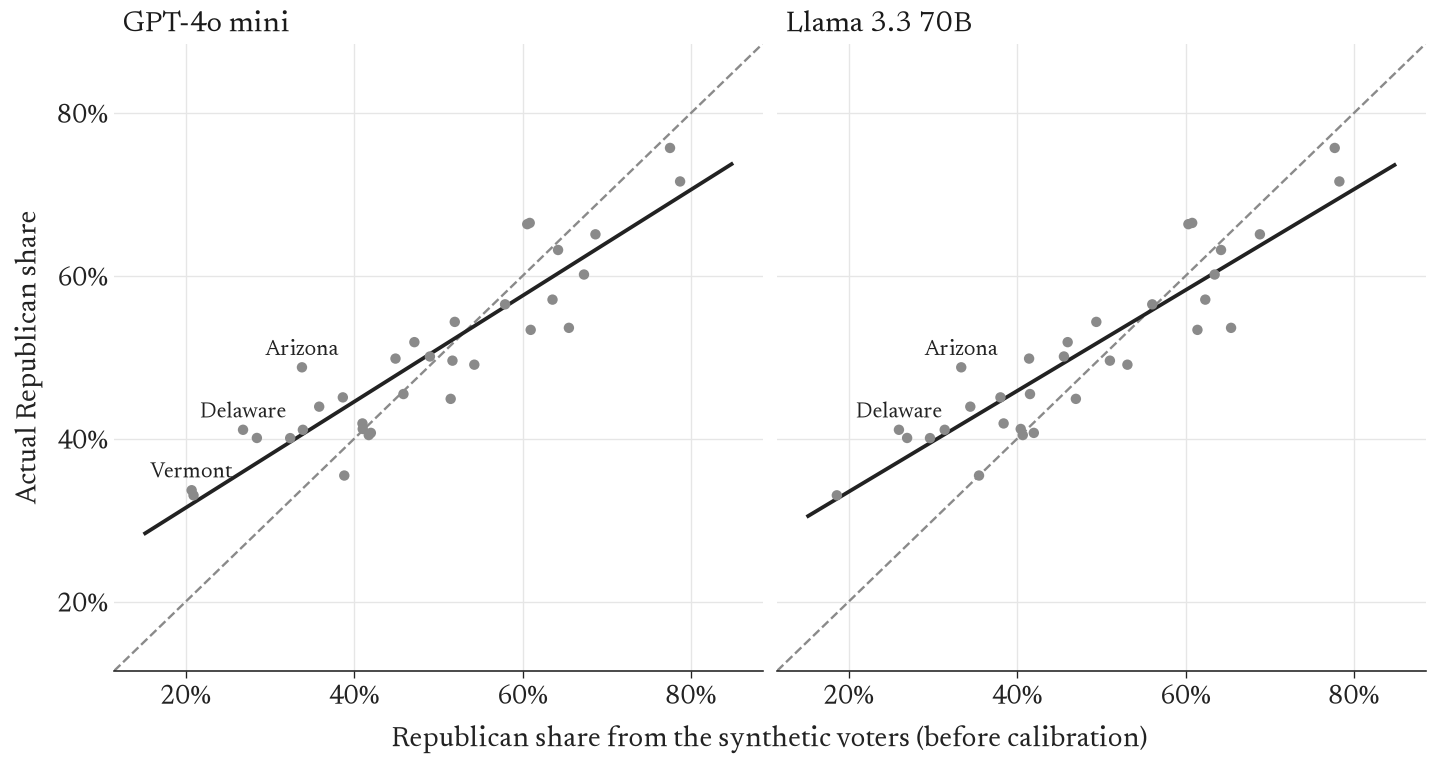
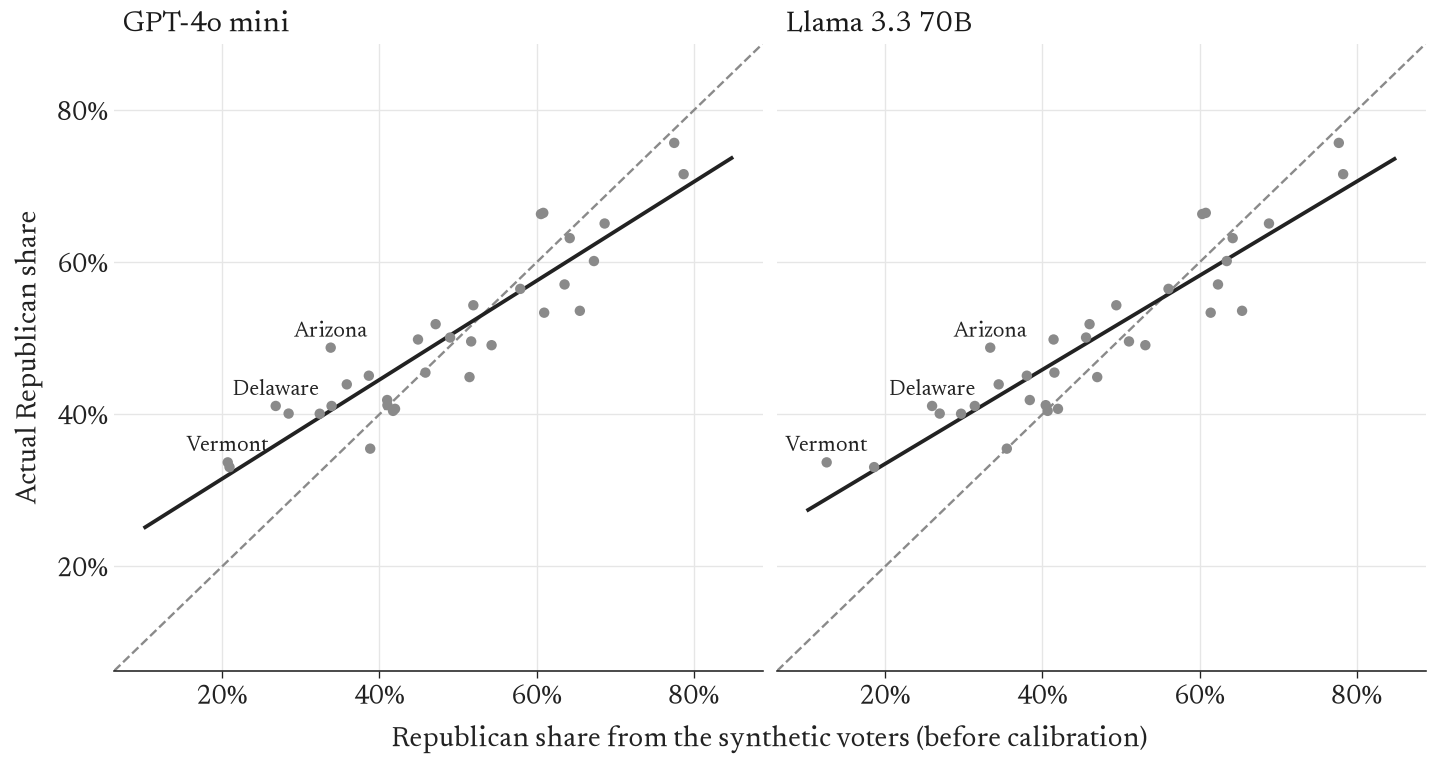
Wrote the 2024 backtest

diff --git a/docs/index.html b/docs/index.html
@@ -166,7 +166,7 @@ div.csl-indent {
 <section id="forecast" class="level2">
 <h2 class="anchored" data-anchor-id="forecast">The forecast</h2>
 <div id="cell-fig-seats" class="cell" data-execution_count="2">
-<div class="cell-output cell-output-display" data-execution_count="15">
+<div class="cell-output cell-output-display" data-execution_count="2">
 <div id="fig-seats" class="quarto-float quarto-figure quarto-figure-center anchored">
 <figure class="quarto-float quarto-float-fig figure">
 <div aria-describedby="fig-seats-caption-0ceaefa1-69ba-4598-a22c-09a6ac19f8ca">
@@ -183,7 +183,7 @@ Figure&nbsp;1: Republican seats after the 2026 election in 10,000 simulated elec
 <p>The most common outcomes are 52 Republican seats (10.4% of the simulations, also happens to be the median), 51 or 53 Republican seats (each 9.7% of the simulations), and an exact 50-50 tie (8.6% of the simulations). Republicans controlled the senate outright (51 or more seats) in 63% of the simulations. Republicans gained more seats compared to today (54 or more seats) in 33% of the simulations.</p>
 <p>Notice that the spread of the histogram is very wide. The 80% interval is from 47 to 57, which means that about 8 out of every 10 simulations have Republicans hold between 47 and 57 seats. The full range is 34 to 64 seats. Why is our histogram so wide? For every simulated election we introduce four kinds of uncertainty. First is a national error shared by every state, where we draw one number from a normal distribution with a set standard deviation of 3 percentage points to determine how far the forecast is off nationwide. This matters because if state wise errors were independent, they would often cancel each other out and lead to a bunched-together histogram around 52. Moving every state in the same direction is also honest because real polling misses also tend to run the same way across states, like in 2016 and 2020 <span class="citation" data-cites="gelman2020">(<a href="#ref-gelman2020" role="doc-biblioref">Gelman et al. 2020</a>)</span>. Second is a state error drawn for each separate race to capture local factors (effect of candidates, local issues, campaign success), it was measured as how far off the corrected forecast was for each state in the 2024 backtest and has a standard deviation of 4.7 percentage points. Third, in each simulation we pick one of two LLM models (GPT-4o mini or Llama 3.3 70B) and use its numbers for every state. And fourth, there is sampling error caused by the limited number of personas for each state (about 148 on average).</p>
 <div id="cell-fig-states" class="cell" data-execution_count="3">
-<div class="cell-output cell-output-display" data-execution_count="16">
+<div class="cell-output cell-output-display" data-execution_count="3">
 <div id="fig-states" class="quarto-float quarto-figure quarto-figure-center anchored">
 <figure class="quarto-float quarto-float-fig figure">
 <div aria-describedby="fig-states-caption-0ceaefa1-69ba-4598-a22c-09a6ac19f8ca">
@@ -269,11 +269,10 @@ Reply with exactly one of: Republican, Democrat, Other, Would not vote. No other
 </section>
 <section id="backtest" class="level2">
 <h2 class="anchored" data-anchor-id="backtest">Does it work? The 2024 backtest</h2>
-<div class="write">
-<p>We ran the same pipeline on 2024, when the answers are known: 4,833 personas in 33 races, with models whose knowledge ends before that election. Before calibration the models are too Democratic (bias 1.6 points for GPT-4o mini, 3.3 for Llama) and too extreme: the calibration slopes are 0.65 and 0.62, so real results are about two thirds as lopsided as the synthetic ones. Link to <span class="citation" data-cites="bisbee2024">Bisbee et al. (<a href="#ref-bisbee2024" role="doc-biblioref">2024</a>)</span>.</p>
-</div>
+<p>What is our backtest? We ran the same pipeline as described in the <a href="#method">method section</a>, but on the 2024 Senate races which already have known results. Here we had 4,833 personas in 33 races, and weights were <code>survey weight × each person’s validated 2024 turnout</code>. We compared the synthetic Republican share from each state with its actual 2024 result from <span class="citation" data-cites="wiki2024">Wikipedia contributors (<a href="#ref-wiki2024" role="doc-biblioref">2026a</a>)</span>. It is from this test that we got our calibration line and 4.7-point state error used to forecast 2026.</p>
+<p>Before any correction, the average lean (actual – synthetic) was +1.6 points for GPT and +3.3 points for Llama, meaning that real results were more Republican. The average miss was 5.7 points for GPT and 6.4 points for Llama. Both models called 28 out of 33 races correctly. Synthetic voters were too Democratic by an average of 4.3 points (GPT) and 6.5 points (Llama) in the 19 races that Democrats won. Synthetic voters were too Republican by a smaller average of 2.0 (GPT) and 1.0 (Llama) in the 14 races Republicans won. This matches <span class="citation" data-cites="bisbee2024">Bisbee et al. (<a href="#ref-bisbee2024" role="doc-biblioref">2024</a>)</span>, where synthetic samples show too little variation and exaggerate difference between groups. In <a href="#fig-backtest" class="quarto-xref">Figure&nbsp;3</a> below, the solid calibration line being flatter than the dashed line visualizes this “too extreme”. The wrong calls were mostly very close races. Both models incorrectly called Nevada, Pennsylvania, Wisconsin, and Ohio, which were all races that were decided by just a few points in 2024. After correction, GPT’s average miss fell to 3.9 points, and Llama’s fell to 3.8 points. GPT called 29 races, but Llama correctly called 28 still. We used leave-one-out to fit a line without the state being predicted, because partly fitting a line to the state being predicted may lead us to overestimate the improvement.</p>
 <div id="cell-fig-backtest" class="cell" data-execution_count="6">
-<div class="cell-output cell-output-display" data-execution_count="19">
+<div class="cell-output cell-output-display" data-execution_count="6">
 <div id="fig-backtest" class="quarto-float quarto-figure quarto-figure-center anchored">
 <figure class="quarto-float quarto-float-fig figure">
 <div aria-describedby="fig-backtest-caption-0ceaefa1-69ba-4598-a22c-09a6ac19f8ca">
@@ -287,7 +286,7 @@ Figure&nbsp;3: 2024 backtest. Each dot is one of the 33 Senate races of 2024: th
 </div>
 </div>
 <div id="cell-fig-agreement" class="cell" data-execution_count="7">
-<div class="cell-output cell-output-display" data-execution_count="20">
+<div class="cell-output cell-output-display" data-execution_count="7">
 <div id="fig-agreement" class="quarto-float quarto-figure quarto-figure-center anchored">
 <figure class="quarto-float quarto-float-fig figure">
 <div aria-describedby="fig-agreement-caption-0ceaefa1-69ba-4598-a22c-09a6ac19f8ca">
@@ -300,14 +299,13 @@ Figure&nbsp;4: Person by person in 2024: the share of synthetic voters who pick 
 </div>
 </div>
 </div>
-<div class="write">
-<p>The key finding at the individual level: for partisans the models are no better than knowing party identification (about 94% for both models and the baseline on the same people). Pure independents are where the models are weakest (about 65%), as <span class="citation" data-cites="argyle2023">Argyle et al. (<a href="#ref-argyle2023" role="doc-biblioref">2023</a>)</span> also found.</p>
-</div>
+<p>Did each synthetic voter pick the same side as the real person? For each persona and each model, we first determine which side (Republican or opposition) won the majority of the five answers from the model and then check whether the real person also voted for the same side. For pure independents, we score them on the forced-choice answers. The score is the share of people where the two votes agree. We compare against a party-line baseline, which means that everybody just votes for their party. Note that pure independents don’t have a score for this baseline, so the overall comparison leaves out pure independents and people who are “not sure”.</p>
+<p>For our ~3,060 partisans, the models performed no better than the party-line baseline. GPT had an agreement of 94.2%, Llama had an agreement of 94.5%, and the party-line baseline had an agreement of 94.7%. This suggests that the models add little to nothing beyond the voter’s party when it is known. For pure independents, the agreements were much lower, with 64.9% for GPT and 65.8% for Llama. In reality, 182 pure independents responded that they voted Republican and 169 for the opposition. Just guessing Republican would be correct about 52% of time. The approximate 65% from the models do better than this, but still perform much worse for either partisan group. <span class="citation" data-cites="argyle2023">Argyle et al. (<a href="#ref-argyle2023" role="doc-biblioref">2023</a>)</span> also found that when matching real voters, their silicon samples performed much better for partisans than for independents. This is likely because the persona has no “party-to-vote-for” information, which we think gives a lot of the forecast signal for partisans. See <a href="#fig-agreement" class="quarto-xref">Figure&nbsp;4</a> above, where each marker is close together in partisan rows, and the pure independent row has its markers further to the left and has no baseline marker.</p>
 </section>
 <section id="independents" class="level2">
 <h2 class="anchored" data-anchor-id="independents">The independents problem</h2>
 <div id="cell-fig-independents" class="cell" data-execution_count="8">
-<div class="cell-output cell-output-display" data-execution_count="21">
+<div class="cell-output cell-output-display" data-execution_count="8">
 <div id="fig-independents" class="quarto-float quarto-figure quarto-figure-center anchored">
 <figure class="quarto-float quarto-float-fig figure">
 <div aria-describedby="fig-independents-caption-0ceaefa1-69ba-4598-a22c-09a6ac19f8ca">
@@ -332,7 +330,7 @@ Figure&nbsp;5: The 711 pure independents in the 2024 backtest. Free answer: what
 <p>Two or three sentences on the regression: a ridge regression of each state’s Senate vote on its lagged demographics and partisanship, 2014 to 2024, checked against certified results. The full write-up and code are in the repository (<code>paper/_regression.qmd</code>, <code>scripts/05-regression.py</code>). The two methods name the same winner in 31 of 35 races.</p>
 </div>
 <div id="cell-fig-regression" class="cell" data-execution_count="9">
-<div class="cell-output cell-output-display" data-execution_count="22">
+<div class="cell-output cell-output-display" data-execution_count="9">
 <div id="fig-regression" class="quarto-float quarto-figure quarto-figure-center anchored">
 <figure class="quarto-float quarto-float-fig figure">
 <div aria-describedby="fig-regression-caption-0ceaefa1-69ba-4598-a22c-09a6ac19f8ca">
@@ -388,7 +386,7 @@ Table&nbsp;1: Accuracy on the 33 Senate races of 2024, out of sample for both me
 <section id="do-the-models-agree" class="level3">
 <h3 class="anchored" data-anchor-id="do-the-models-agree">Do the models agree?</h3>
 <div id="cell-fig-models" class="cell" data-execution_count="11">
-<div class="cell-output cell-output-display" data-execution_count="24">
+<div class="cell-output cell-output-display" data-execution_count="11">
 <div id="fig-models" class="quarto-float quarto-figure quarto-figure-center anchored">
 <figure class="quarto-float quarto-float-fig figure">
 <div aria-describedby="fig-models-caption-0ceaefa1-69ba-4598-a22c-09a6ac19f8ca">

diff --git a/scripts/08-silicon_views.py b/scripts/08-silicon_views.py
@@ -225,8 +225,9 @@ def pipeline_html() -> str:
 #### FIG D: 2024 backtest ####
 def fig_backtest(bt: pl.DataFrame, calib: pl.DataFrame):
     d = bt.with_columns(name=pl.col("state").replace(STATE_NAMES), miss=pl.col("error").abs()).to_pandas()
+    assert d["rep_share"].between(0.10, 0.85).all() and d["actual"].between(0.10, 0.85).all(), "point outside axis"
     worst = d.sort_values("miss", ascending=False).groupby("model").head(3)
-    lines = pd.DataFrame([{"model": r["model"], "x": 0.15, "y": r["intercept"] + r["slope"] * 0.15,
+    lines = pd.DataFrame([{"model": r["model"], "x": 0.10, "y": r["intercept"] + r["slope"] * 0.10,
                            "xend": 0.85, "yend": r["intercept"] + r["slope"] * 0.85}
                           for r in calib.iter_rows(named=True)])  # fmt: skip
     return (
@@ -236,8 +237,8 @@ def fig_backtest(bt: pl.DataFrame, calib: pl.DataFrame):
         + geom_point(color=GREY, size=2.2, stroke=0)
         + geom_text(aes(label="name"), data=worst, size=8, family=FONT, color=INK, nudge_y=0.025)
         + facet_wrap("model")
-        + scale_x_continuous(labels=pct, limits=(0.15, 0.85))
-        + scale_y_continuous(labels=pct, limits=(0.15, 0.85))
+        + scale_x_continuous(labels=pct, limits=(0.10, 0.85))
+        + scale_y_continuous(labels=pct, limits=(0.10, 0.85))
         + labs(x="Republican share from the synthetic voters (before calibration)", y="Actual Republican share")
         + theme_news(7.5, 4.0, panel_grid_major_x=element_line(color=GRID, size=0.5))
     )
